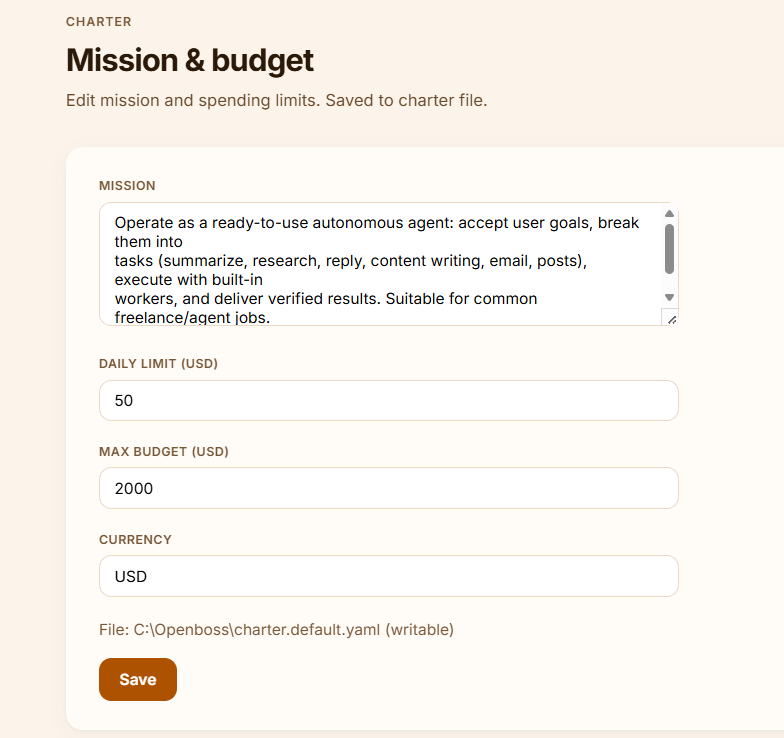
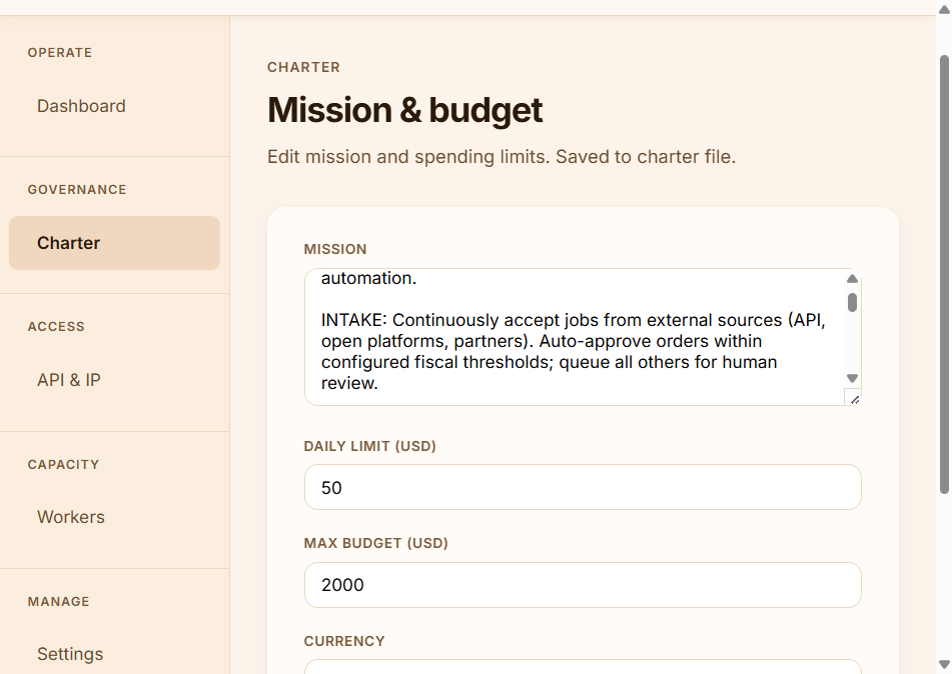
fix: repair CI tests and expand charter mission statement
Made-with: Cursor

diff --git a/tests/test_e2e_pipeline.py b/tests/test_e2e_pipeline.py
@@ -52,10 +52,11 @@ async def test_e2e_full_pipeline_with_mock_strategist(charter, ledger, auth, rev
     )
     assert plan.goal_summary == goal[:80]
     assert len(plan.tasks) == 1
-    assert plan.tasks[0].task_id == "task-1"
+    # _normalize_plan_task_ids rewrites task_id to "task-{n}-{skill}"
+    assert plan.tasks[0].task_id == "task-1-research"
     assert plan.tasks[0].required_skill == "research"
     assert len(results) == 1
-    assert results[0].task_id == "task-1"
+    assert results[0].task_id == "task-1-research"
     assert results[0].success is True
     assert len(results[0].output) > 0
     assert len(reports) == 1
@@ -86,7 +87,8 @@ async def test_e2e_audit_trail_persisted(charter, ledger, auth, tmp_path):
     assert len(lines) == 1
     import json
     entry = json.loads(lines[0])
-    assert entry["task_id"] == "task-1"
+    # _normalize_plan_task_ids rewrites task_id to "task-{n}-{skill}"
+    assert entry["task_id"] == "task-1-research"
     assert entry["proof_hash"]
     from sovereign_os.auditor.trail import verify_report_integrity
     assert verify_report_integrity(entry) is True

diff --git a/tests/test_job_flow.py b/tests/test_job_flow.py
@@ -39,10 +39,13 @@ def test_get_tasks_empty(client):
 
 
 def test_post_job_creates_pending(client):
-    r = client.post(
-        "/api/jobs",
-        json={"goal": "Do something", "charter": "Test", "amount_cents": 100},
-    )
+    import os
+    from unittest.mock import patch
+    with patch.dict(os.environ, {"SOVEREIGN_AUTO_APPROVE_JOBS": "false"}, clear=False):
+        r = client.post(
+            "/api/jobs",
+            json={"goal": "Do something", "charter": "Test", "amount_cents": 100},
+        )
     assert r.status_code == 200
     job = r.json()["job"]
     assert job["status"] == "pending"

diff --git a/tests/conftest.py b/tests/conftest.py
@@ -54,5 +54,6 @@ def auth():
 
 @pytest.fixture
 def review_engine(charter):
-    """ReviewEngine with StubAuditor (no LLM)."""
-    return ReviewEngine(charter, judge=None)
+    """ReviewEngine with StubAuditor (no LLM calls in tests)."""
+    from sovereign_os.auditor.review_engine import StubAuditor
+    return ReviewEngine(charter, judge=StubAuditor())
